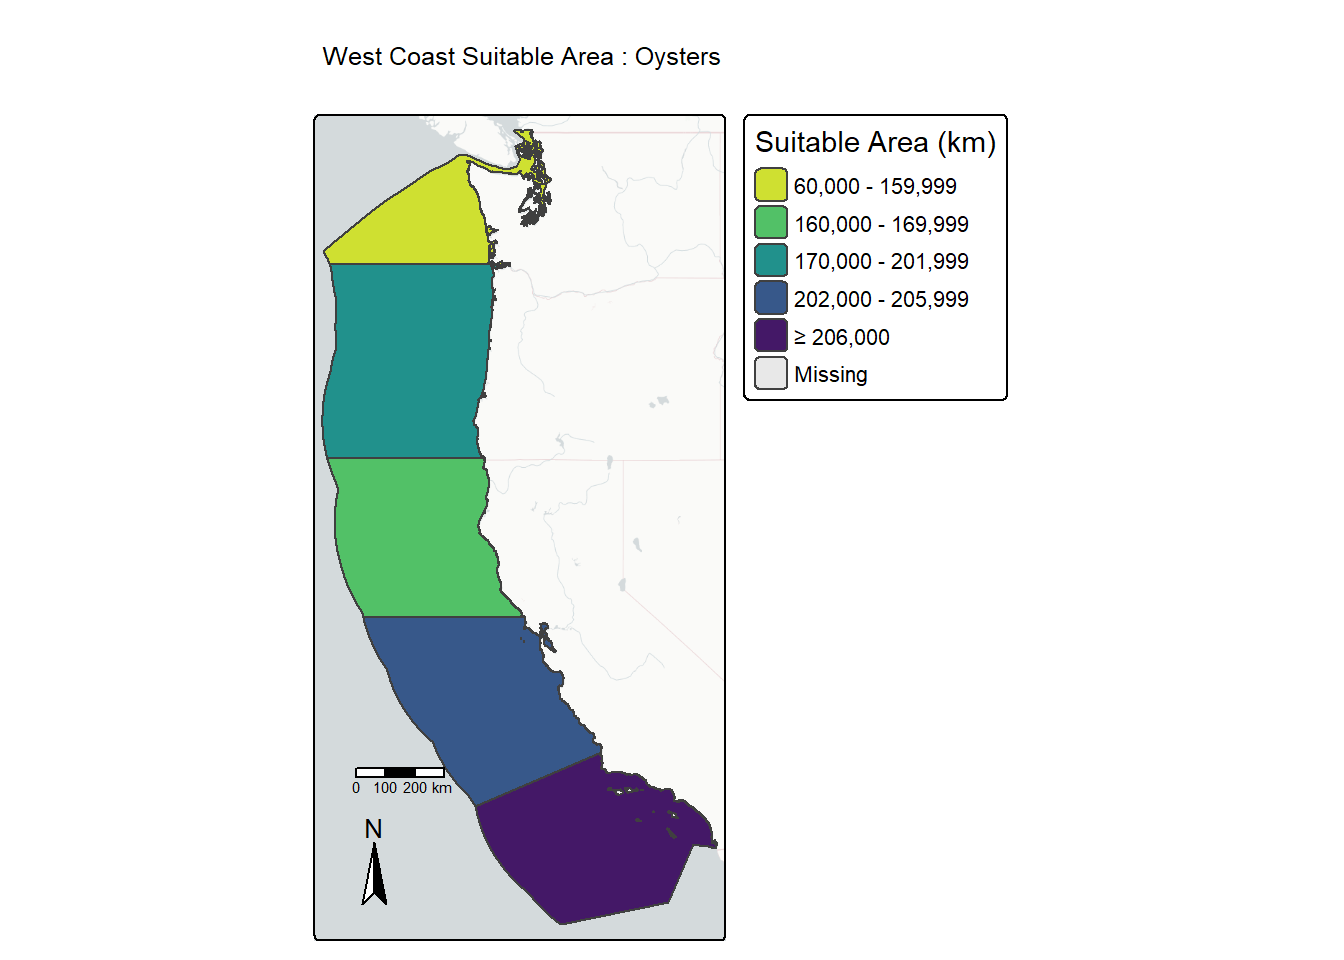
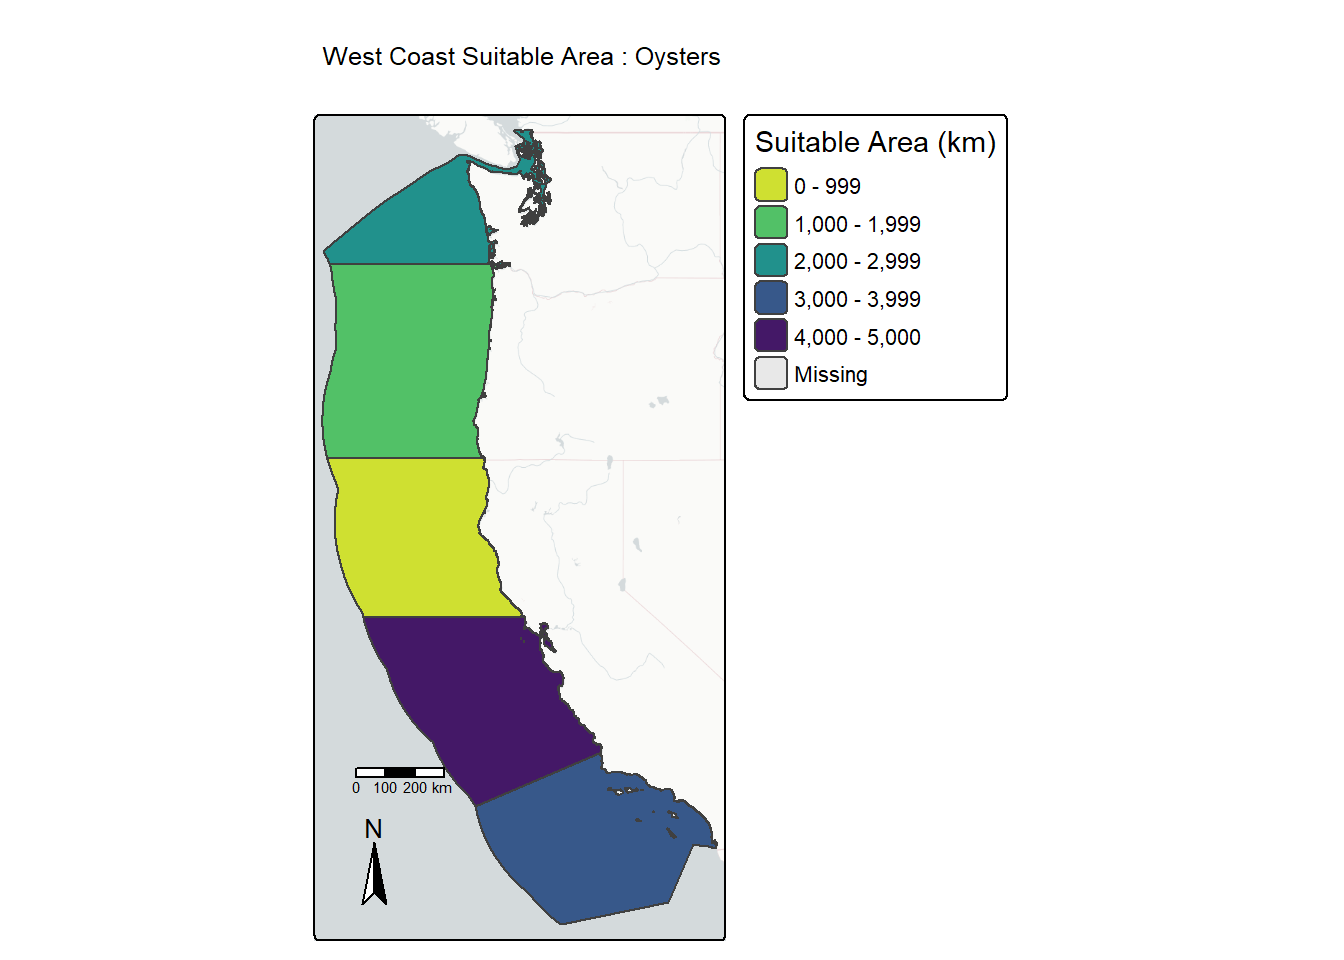
Add conclusion paragraph

Changed region(s): [[0.2188, 0.1562, 0.5312, 0.9688], [0.5938, 0.1875, 0.7188, 0.375]]

diff --git a/suitable_habitats.html b/suitable_habitats.html
@@ -357,12 +357,14 @@ pre > code.sourceCode > span > a:first-child::before { text-decoration: underlin
  3rd Qu.:17.58  
  Max.   :18.56  </code></pre>
 </div>
-<div class="code-copy-outer-scaffold"><div class="sourceCode cell-code" id="cb33"><pre class="sourceCode r code-with-copy"><code class="sourceCode r"><span id="cb33-1"><a href="#cb33-1" aria-hidden="true" tabindex="-1"></a><span class="co"># sum across zones to get total suitable area</span></span>
-<span id="cb33-2"><a href="#cb33-2" aria-hidden="true" tabindex="-1"></a>total_area <span class="ot">&lt;-</span> <span class="fu">zonal</span>(suitable_cell_area, eez_rast, <span class="at">fun=</span><span class="st">"sum"</span>, <span class="at">na.rm =</span> <span class="cn">TRUE</span>)</span>
-<span id="cb33-3"><a href="#cb33-3" aria-hidden="true" tabindex="-1"></a>knitr<span class="sc">::</span><span class="fu">kable</span>(total_area, <span class="at">format =</span> <span class="st">"html"</span>, </span>
-<span id="cb33-4"><a href="#cb33-4" aria-hidden="true" tabindex="-1"></a>             <span class="at">col.names =</span> <span class="fu">c</span>(<span class="st">"Region ID"</span>, <span class="st">"Total Suitable Area (km)"</span>), <span class="at">table.attr =</span> <span class="st">'data-quarto-disable-processing="true"'</span>) <span class="sc">%&gt;%</span> </span>
-<span id="cb33-5"><a href="#cb33-5" aria-hidden="true" tabindex="-1"></a>  kableExtra<span class="sc">::</span><span class="fu">kable_styling</span>(<span class="at">bootstrap_options =</span> <span class="fu">c</span>(<span class="st">"basic"</span>, <span class="st">"hover"</span>), </span>
-<span id="cb33-6"><a href="#cb33-6" aria-hidden="true" tabindex="-1"></a>                            <span class="at">full_width =</span> <span class="cn">FALSE</span>)</span></code></pre></div><button title="Copy to Clipboard" class="code-copy-button"><i class="bi"></i></button></div>
+<div class="code-copy-outer-scaffold"><div class="sourceCode cell-code" id="cb33"><pre class="sourceCode r code-with-copy"><code class="sourceCode r"><span id="cb33-1"><a href="#cb33-1" aria-hidden="true" tabindex="-1"></a><span class="co"># multiply against NAs to remove extra values</span></span>
+<span id="cb33-2"><a href="#cb33-2" aria-hidden="true" tabindex="-1"></a>suitable_cell_area_values <span class="ot">&lt;-</span> suitable_cell_area <span class="sc">*</span> suitable_cells_west</span>
+<span id="cb33-3"><a href="#cb33-3" aria-hidden="true" tabindex="-1"></a><span class="co"># sum across zones to get total suitable area</span></span>
+<span id="cb33-4"><a href="#cb33-4" aria-hidden="true" tabindex="-1"></a>total_area <span class="ot">&lt;-</span> <span class="fu">zonal</span>(suitable_cell_area_values, eez_rast, <span class="at">fun=</span><span class="st">"sum"</span>, <span class="at">na.rm =</span> <span class="cn">TRUE</span>)</span>
+<span id="cb33-5"><a href="#cb33-5" aria-hidden="true" tabindex="-1"></a>knitr<span class="sc">::</span><span class="fu">kable</span>(total_area, <span class="at">format =</span> <span class="st">"html"</span>, </span>
+<span id="cb33-6"><a href="#cb33-6" aria-hidden="true" tabindex="-1"></a>             <span class="at">col.names =</span> <span class="fu">c</span>(<span class="st">"Region ID"</span>, <span class="st">"Total Suitable Area (km)"</span>), <span class="at">table.attr =</span> <span class="st">'data-quarto-disable-processing="true"'</span>) <span class="sc">%&gt;%</span> </span>
+<span id="cb33-7"><a href="#cb33-7" aria-hidden="true" tabindex="-1"></a>  kableExtra<span class="sc">::</span><span class="fu">kable_styling</span>(<span class="at">bootstrap_options =</span> <span class="fu">c</span>(<span class="st">"basic"</span>, <span class="st">"hover"</span>), </span>
+<span id="cb33-8"><a href="#cb33-8" aria-hidden="true" tabindex="-1"></a>                            <span class="at">full_width =</span> <span class="cn">FALSE</span>)</span></code></pre></div><button title="Copy to Clipboard" class="code-copy-button"><i class="bi"></i></button></div>
 <div class="cell-output-display">
 <table data-quarto-disable-processing="true" class="table table-hover" style="width: auto !important; margin-left: auto; margin-right: auto;">
  <thead>
@@ -374,23 +376,23 @@ pre > code.sourceCode > span > a:first-child::before { text-decoration: underlin
 <tbody>
   <tr>
    <td style="text-align:right;"> 1 </td>
-   <td style="text-align:right;"> 179866.42 </td>
+   <td style="text-align:right;"> 1074.2720 </td>
   </tr>
   <tr>
    <td style="text-align:right;"> 2 </td>
-   <td style="text-align:right;"> 163715.00 </td>
+   <td style="text-align:right;"> 178.0268 </td>
   </tr>
   <tr>
    <td style="text-align:right;"> 3 </td>
-   <td style="text-align:right;"> 202779.85 </td>
+   <td style="text-align:right;"> 4069.8766 </td>
   </tr>
   <tr>
    <td style="text-align:right;"> 4 </td>
-   <td style="text-align:right;"> 206535.86 </td>
+   <td style="text-align:right;"> 3757.2849 </td>
   </tr>
   <tr>
    <td style="text-align:right;"> 5 </td>
-   <td style="text-align:right;"> 67813.69 </td>
+   <td style="text-align:right;"> 2378.3137 </td>
   </tr>
 </tbody>
 </table>
@@ -403,13 +405,12 @@ pre > code.sourceCode > span > a:first-child::before { text-decoration: underlin
 <span id="cb34-6"><a href="#cb34-6" aria-hidden="true" tabindex="-1"></a><span class="fu">tm_shape</span>(total_area) <span class="sc">+</span></span>
 <span id="cb34-7"><a href="#cb34-7" aria-hidden="true" tabindex="-1"></a>  <span class="fu">tm_basemap</span>(<span class="st">"CartoDB.PositronNoLabels"</span>) <span class="sc">+</span></span>
 <span id="cb34-8"><a href="#cb34-8" aria-hidden="true" tabindex="-1"></a>  <span class="fu">tm_polygons</span>(<span class="at">fill =</span> <span class="st">"area"</span>,</span>
-<span id="cb34-9"><a href="#cb34-9" aria-hidden="true" tabindex="-1"></a>              <span class="at">breaks =</span> <span class="fu">c</span>(<span class="dv">60000</span>, <span class="dv">160000</span>, <span class="dv">170000</span>, <span class="dv">202000</span>, <span class="dv">206000</span>, <span class="cn">Inf</span>),</span>
-<span id="cb34-10"><a href="#cb34-10" aria-hidden="true" tabindex="-1"></a>              <span class="at">title =</span> <span class="st">"Suitable Area (km)"</span>,</span>
-<span id="cb34-11"><a href="#cb34-11" aria-hidden="true" tabindex="-1"></a>              <span class="at">palette =</span> <span class="st">"-viridis"</span>) <span class="sc">+</span></span>
-<span id="cb34-12"><a href="#cb34-12" aria-hidden="true" tabindex="-1"></a>  <span class="fu">tm_scalebar</span>(<span class="at">breaks =</span> <span class="fu">c</span>(<span class="dv">0</span>, <span class="dv">100</span>, <span class="dv">200</span>, <span class="dv">300</span>),</span>
-<span id="cb34-13"><a href="#cb34-13" aria-hidden="true" tabindex="-1"></a>              <span class="at">position =</span> <span class="fu">c</span>(<span class="st">"left"</span>, <span class="st">"bottom"</span>)) <span class="sc">+</span></span>
-<span id="cb34-14"><a href="#cb34-14" aria-hidden="true" tabindex="-1"></a>  <span class="fu">tm_compass</span>(<span class="at">position =</span> <span class="fu">c</span>(<span class="st">"left"</span>, <span class="st">"bottom"</span>)) <span class="sc">+</span></span>
-<span id="cb34-15"><a href="#cb34-15" aria-hidden="true" tabindex="-1"></a>  <span class="fu">tm_title</span>(<span class="st">"West Coast Suitable Area : Oysters"</span>)</span></code></pre></div><button title="Copy to Clipboard" class="code-copy-button"><i class="bi"></i></button></div>
+<span id="cb34-9"><a href="#cb34-9" aria-hidden="true" tabindex="-1"></a>              <span class="at">title =</span> <span class="st">"Suitable Area (km)"</span>,</span>
+<span id="cb34-10"><a href="#cb34-10" aria-hidden="true" tabindex="-1"></a>              <span class="at">palette =</span> <span class="st">"-viridis"</span>) <span class="sc">+</span></span>
+<span id="cb34-11"><a href="#cb34-11" aria-hidden="true" tabindex="-1"></a>  <span class="fu">tm_scalebar</span>(<span class="at">breaks =</span> <span class="fu">c</span>(<span class="dv">0</span>, <span class="dv">100</span>, <span class="dv">200</span>, <span class="dv">300</span>),</span>
+<span id="cb34-12"><a href="#cb34-12" aria-hidden="true" tabindex="-1"></a>              <span class="at">position =</span> <span class="fu">c</span>(<span class="st">"left"</span>, <span class="st">"bottom"</span>)) <span class="sc">+</span></span>
+<span id="cb34-13"><a href="#cb34-13" aria-hidden="true" tabindex="-1"></a>  <span class="fu">tm_compass</span>(<span class="at">position =</span> <span class="fu">c</span>(<span class="st">"left"</span>, <span class="st">"bottom"</span>)) <span class="sc">+</span></span>
+<span id="cb34-14"><a href="#cb34-14" aria-hidden="true" tabindex="-1"></a>  <span class="fu">tm_title</span>(<span class="st">"West Coast Suitable Area : Oysters"</span>)</span></code></pre></div><button title="Copy to Clipboard" class="code-copy-button"><i class="bi"></i></button></div>
 <div class="cell-output-display">
 <div>
 <figure class="figure">
@@ -457,32 +458,33 @@ pre > code.sourceCode > span > a:first-child::before { text-decoration: underlin
 <span id="cb35-29"><a href="#cb35-29" aria-hidden="true" tabindex="-1"></a>  <span class="co"># find cell size of suitable cell areas</span></span>
 <span id="cb35-30"><a href="#cb35-30" aria-hidden="true" tabindex="-1"></a>  eez_rast <span class="ot">&lt;-</span> <span class="fu">rasterize</span>(eez, <span class="at">y =</span> suitable_cells_west, <span class="at">field =</span> <span class="st">"rgn_id"</span>)</span>
 <span id="cb35-31"><a href="#cb35-31" aria-hidden="true" tabindex="-1"></a>  suitable_cell_area <span class="ot">&lt;-</span> <span class="fu">cellSize</span>(suitable_cells_west, <span class="at">unit=</span><span class="st">"km"</span>)</span>
-<span id="cb35-32"><a href="#cb35-32" aria-hidden="true" tabindex="-1"></a>  </span>
-<span id="cb35-33"><a href="#cb35-33" aria-hidden="true" tabindex="-1"></a>  <span class="co"># sum across zones to get total suitable area, and join with spatial data to map</span></span>
-<span id="cb35-34"><a href="#cb35-34" aria-hidden="true" tabindex="-1"></a>  total_area <span class="ot">&lt;-</span> <span class="fu">zonal</span>(suitable_cell_area, eez_rast, <span class="at">fun=</span><span class="st">"sum"</span>, <span class="at">na.rm =</span> <span class="cn">TRUE</span>)</span>
-<span id="cb35-35"><a href="#cb35-35" aria-hidden="true" tabindex="-1"></a>  total_area <span class="ot">&lt;-</span> <span class="fu">left_join</span>(total_area, eez, <span class="at">by =</span> <span class="st">"rgn_id"</span>)</span>
-<span id="cb35-36"><a href="#cb35-36" aria-hidden="true" tabindex="-1"></a>  total_area <span class="ot">&lt;-</span> <span class="fu">st_as_sf</span>(total_area)</span>
-<span id="cb35-37"><a href="#cb35-37" aria-hidden="true" tabindex="-1"></a>  </span>
-<span id="cb35-38"><a href="#cb35-38" aria-hidden="true" tabindex="-1"></a>  <span class="co"># map suitable areas</span></span>
-<span id="cb35-39"><a href="#cb35-39" aria-hidden="true" tabindex="-1"></a>  <span class="fu">tm_shape</span>(total_area) <span class="sc">+</span></span>
-<span id="cb35-40"><a href="#cb35-40" aria-hidden="true" tabindex="-1"></a>  <span class="fu">tm_basemap</span>(<span class="st">"CartoDB.PositronNoLabels"</span>) <span class="sc">+</span></span>
-<span id="cb35-41"><a href="#cb35-41" aria-hidden="true" tabindex="-1"></a>  <span class="fu">tm_polygons</span>(<span class="at">fill =</span> <span class="st">"area"</span>,</span>
-<span id="cb35-42"><a href="#cb35-42" aria-hidden="true" tabindex="-1"></a>              <span class="at">breaks =</span> <span class="fu">c</span>(<span class="dv">60000</span>, <span class="dv">160000</span>, <span class="dv">170000</span>, <span class="dv">202000</span>, <span class="dv">206000</span>, <span class="cn">Inf</span>),</span>
-<span id="cb35-43"><a href="#cb35-43" aria-hidden="true" tabindex="-1"></a>              <span class="at">title =</span> <span class="st">"Suitable Area (km)"</span>,</span>
-<span id="cb35-44"><a href="#cb35-44" aria-hidden="true" tabindex="-1"></a>              <span class="at">palette =</span> <span class="st">"-viridis"</span>) <span class="sc">+</span></span>
-<span id="cb35-45"><a href="#cb35-45" aria-hidden="true" tabindex="-1"></a>  <span class="fu">tm_scalebar</span>(<span class="at">breaks =</span> <span class="fu">c</span>(<span class="dv">0</span>, <span class="dv">100</span>, <span class="dv">200</span>, <span class="dv">300</span>),</span>
-<span id="cb35-46"><a href="#cb35-46" aria-hidden="true" tabindex="-1"></a>              <span class="at">position =</span> <span class="fu">c</span>(<span class="st">"left"</span>, <span class="st">"bottom"</span>)) <span class="sc">+</span></span>
-<span id="cb35-47"><a href="#cb35-47" aria-hidden="true" tabindex="-1"></a>  <span class="fu">tm_compass</span>(<span class="at">position =</span> <span class="fu">c</span>(<span class="st">"left"</span>, <span class="st">"bottom"</span>)) <span class="sc">+</span></span>
-<span id="cb35-48"><a href="#cb35-48" aria-hidden="true" tabindex="-1"></a>  <span class="fu">tm_title</span>(<span class="fu">paste</span>(<span class="st">"West Coast Suitable Area :"</span>, species_name))</span>
-<span id="cb35-49"><a href="#cb35-49" aria-hidden="true" tabindex="-1"></a>}</span>
-<span id="cb35-50"><a href="#cb35-50" aria-hidden="true" tabindex="-1"></a></span>
+<span id="cb35-32"><a href="#cb35-32" aria-hidden="true" tabindex="-1"></a>  <span class="co"># multiply against NAs to remove extra values</span></span>
+<span id="cb35-33"><a href="#cb35-33" aria-hidden="true" tabindex="-1"></a>  suitable_cell_area_values <span class="ot">&lt;-</span> suitable_cell_area <span class="sc">*</span> suitable_cells_west</span>
+<span id="cb35-34"><a href="#cb35-34" aria-hidden="true" tabindex="-1"></a>  </span>
+<span id="cb35-35"><a href="#cb35-35" aria-hidden="true" tabindex="-1"></a>  <span class="co"># sum across zones to get total suitable area, and join with spatial data to map</span></span>
+<span id="cb35-36"><a href="#cb35-36" aria-hidden="true" tabindex="-1"></a>  total_area <span class="ot">&lt;-</span> <span class="fu">zonal</span>(suitable_cell_area_values, eez_rast, <span class="at">fun=</span><span class="st">"sum"</span>, <span class="at">na.rm =</span> <span class="cn">TRUE</span>)</span>
+<span id="cb35-37"><a href="#cb35-37" aria-hidden="true" tabindex="-1"></a>  total_area <span class="ot">&lt;-</span> <span class="fu">left_join</span>(total_area, eez, <span class="at">by =</span> <span class="st">"rgn_id"</span>)</span>
+<span id="cb35-38"><a href="#cb35-38" aria-hidden="true" tabindex="-1"></a>  total_area <span class="ot">&lt;-</span> <span class="fu">st_as_sf</span>(total_area)</span>
+<span id="cb35-39"><a href="#cb35-39" aria-hidden="true" tabindex="-1"></a>  </span>
+<span id="cb35-40"><a href="#cb35-40" aria-hidden="true" tabindex="-1"></a>  <span class="co"># map suitable areas</span></span>
+<span id="cb35-41"><a href="#cb35-41" aria-hidden="true" tabindex="-1"></a>  <span class="fu">tm_shape</span>(total_area) <span class="sc">+</span></span>
+<span id="cb35-42"><a href="#cb35-42" aria-hidden="true" tabindex="-1"></a>  <span class="fu">tm_basemap</span>(<span class="st">"CartoDB.PositronNoLabels"</span>) <span class="sc">+</span></span>
+<span id="cb35-43"><a href="#cb35-43" aria-hidden="true" tabindex="-1"></a>  <span class="fu">tm_polygons</span>(<span class="at">fill =</span> <span class="st">"area"</span>,</span>
+<span id="cb35-44"><a href="#cb35-44" aria-hidden="true" tabindex="-1"></a>              <span class="at">title =</span> <span class="st">"Suitable Area (km)"</span>,</span>
+<span id="cb35-45"><a href="#cb35-45" aria-hidden="true" tabindex="-1"></a>              <span class="at">palette =</span> <span class="st">"-viridis"</span>) <span class="sc">+</span></span>
+<span id="cb35-46"><a href="#cb35-46" aria-hidden="true" tabindex="-1"></a>  <span class="fu">tm_scalebar</span>(<span class="at">breaks =</span> <span class="fu">c</span>(<span class="dv">0</span>, <span class="dv">100</span>, <span class="dv">200</span>, <span class="dv">300</span>),</span>
+<span id="cb35-47"><a href="#cb35-47" aria-hidden="true" tabindex="-1"></a>              <span class="at">position =</span> <span class="fu">c</span>(<span class="st">"left"</span>, <span class="st">"bottom"</span>)) <span class="sc">+</span></span>
+<span id="cb35-48"><a href="#cb35-48" aria-hidden="true" tabindex="-1"></a>  <span class="fu">tm_compass</span>(<span class="at">position =</span> <span class="fu">c</span>(<span class="st">"left"</span>, <span class="st">"bottom"</span>)) <span class="sc">+</span></span>
+<span id="cb35-49"><a href="#cb35-49" aria-hidden="true" tabindex="-1"></a>  <span class="fu">tm_title</span>(<span class="fu">paste</span>(<span class="st">"West Coast Suitable Area :"</span>, species_name))</span>
+<span id="cb35-50"><a href="#cb35-50" aria-hidden="true" tabindex="-1"></a>}</span>
 <span id="cb35-51"><a href="#cb35-51" aria-hidden="true" tabindex="-1"></a></span>
-<span id="cb35-52"><a href="#cb35-52" aria-hidden="true" tabindex="-1"></a><span class="co"># Run the function with suitable conditions for red abalone</span></span>
-<span id="cb35-53"><a href="#cb35-53" aria-hidden="true" tabindex="-1"></a><span class="fu">suitable_location</span>(<span class="at">sst_low =</span> <span class="dv">8</span>, </span>
-<span id="cb35-54"><a href="#cb35-54" aria-hidden="true" tabindex="-1"></a>                  <span class="at">sst_high =</span> <span class="dv">18</span>, </span>
-<span id="cb35-55"><a href="#cb35-55" aria-hidden="true" tabindex="-1"></a>                  <span class="at">depth_low =</span> <span class="sc">-</span><span class="dv">24</span>, </span>
-<span id="cb35-56"><a href="#cb35-56" aria-hidden="true" tabindex="-1"></a>                  <span class="at">depth_high =</span> <span class="dv">0</span>, </span>
-<span id="cb35-57"><a href="#cb35-57" aria-hidden="true" tabindex="-1"></a>                  <span class="at">species_name =</span> <span class="st">"Red Abalone"</span>)</span></code></pre></div><button title="Copy to Clipboard" class="code-copy-button"><i class="bi"></i></button></div>
+<span id="cb35-52"><a href="#cb35-52" aria-hidden="true" tabindex="-1"></a></span>
+<span id="cb35-53"><a href="#cb35-53" aria-hidden="true" tabindex="-1"></a><span class="co"># Run the function with suitable conditions for red abalone</span></span>
+<span id="cb35-54"><a href="#cb35-54" aria-hidden="true" tabindex="-1"></a><span class="fu">suitable_location</span>(<span class="at">sst_low =</span> <span class="dv">8</span>, </span>
+<span id="cb35-55"><a href="#cb35-55" aria-hidden="true" tabindex="-1"></a>                  <span class="at">sst_high =</span> <span class="dv">18</span>, </span>
+<span id="cb35-56"><a href="#cb35-56" aria-hidden="true" tabindex="-1"></a>                  <span class="at">depth_low =</span> <span class="sc">-</span><span class="dv">24</span>, </span>
+<span id="cb35-57"><a href="#cb35-57" aria-hidden="true" tabindex="-1"></a>                  <span class="at">depth_high =</span> <span class="dv">0</span>, </span>
+<span id="cb35-58"><a href="#cb35-58" aria-hidden="true" tabindex="-1"></a>                  <span class="at">species_name =</span> <span class="st">"Red Abalone"</span>)</span></code></pre></div><button title="Copy to Clipboard" class="code-copy-button"><i class="bi"></i></button></div>
 <div class="cell-output-display">
 <div>
 <figure class="figure">
@@ -491,6 +493,12 @@ pre > code.sourceCode > span > a:first-child::before { text-decoration: underlin
 </div>
 </div>
 </div>
+</section>
+<section id="step-5-conclusions" class="level1">
+<h1>Step 5: Conclusions</h1>
+<p>For oysters, we can see the are on the west coast with the most suitable area is in the EEZ of the central area of California’s coast, with the next highest in southern California. For red abalone, there is generally less total suitable area on the west coast but the EEZ with the most suitable area is in Washington, with the rest of the west coast being fairly comparable in suitable area.</p>
+<p>Native oysters, Olympia oysters for example, have a range that spreads all along the west coast. Their suitable EEZ areas make sense, with most of the area very close to shore where temperature and depth satisfies their ecological needs. Red abalone are also found along the entirety of the west coast, however with smaller suitable temperature and depth ranges, it makes sense they have a much smaller area of suitability.</p>
+<p>While these maps are very informative for finding areas of the west coast for potential farming or restoration, for example, they only describe a small portion of what makes an area suitable for a species. There can be factors such as habitat and food availability, insulation from extreme weather events, competition or predation, or other ecological and environmental attributes that can influence the suitability of an area.</p>
 <p>README <img src="README1.png" class="img-fluid"> <img src="README2.png" class="img-fluid"></p>
 </section>
 
